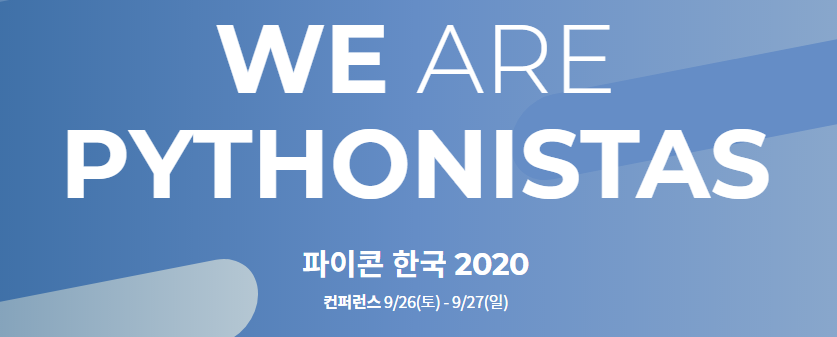
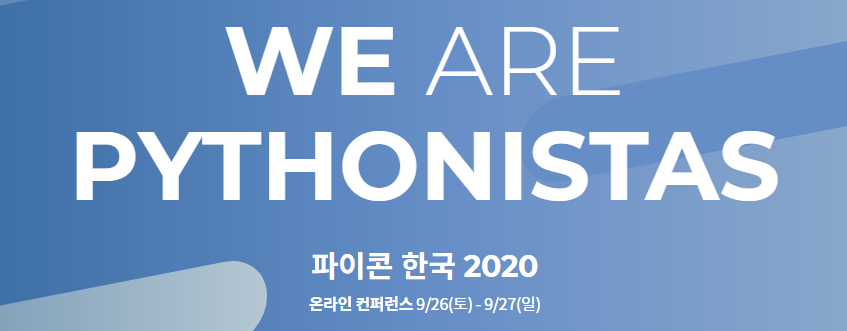
홈 화면 문구 추가, OG 이미지 변경

diff --git a/pyconkr/templates/base.html b/pyconkr/templates/base.html
@@ -60,7 +60,7 @@
             <h1>WE <span>ARE</span><br>PYTHONISTAS</h1>
             <h2>{% trans "PyCon Korea 2020" %}</h2>
             <p>
-                <span><b>{% trans "Conference" %}</b>  9/26({% trans "토" %}) - 9/27({% trans "일" %})</span>
+                <span><b>{% trans "Online" %} {% trans "Conference" %}</b>  9/26({% trans "토" %}) - 9/27({% trans "일" %})</span>
             </p>
 {#            <p><b>{% trans "Coex Grand Ballroom, Seoul" %}</b></p>#}
         </header>
